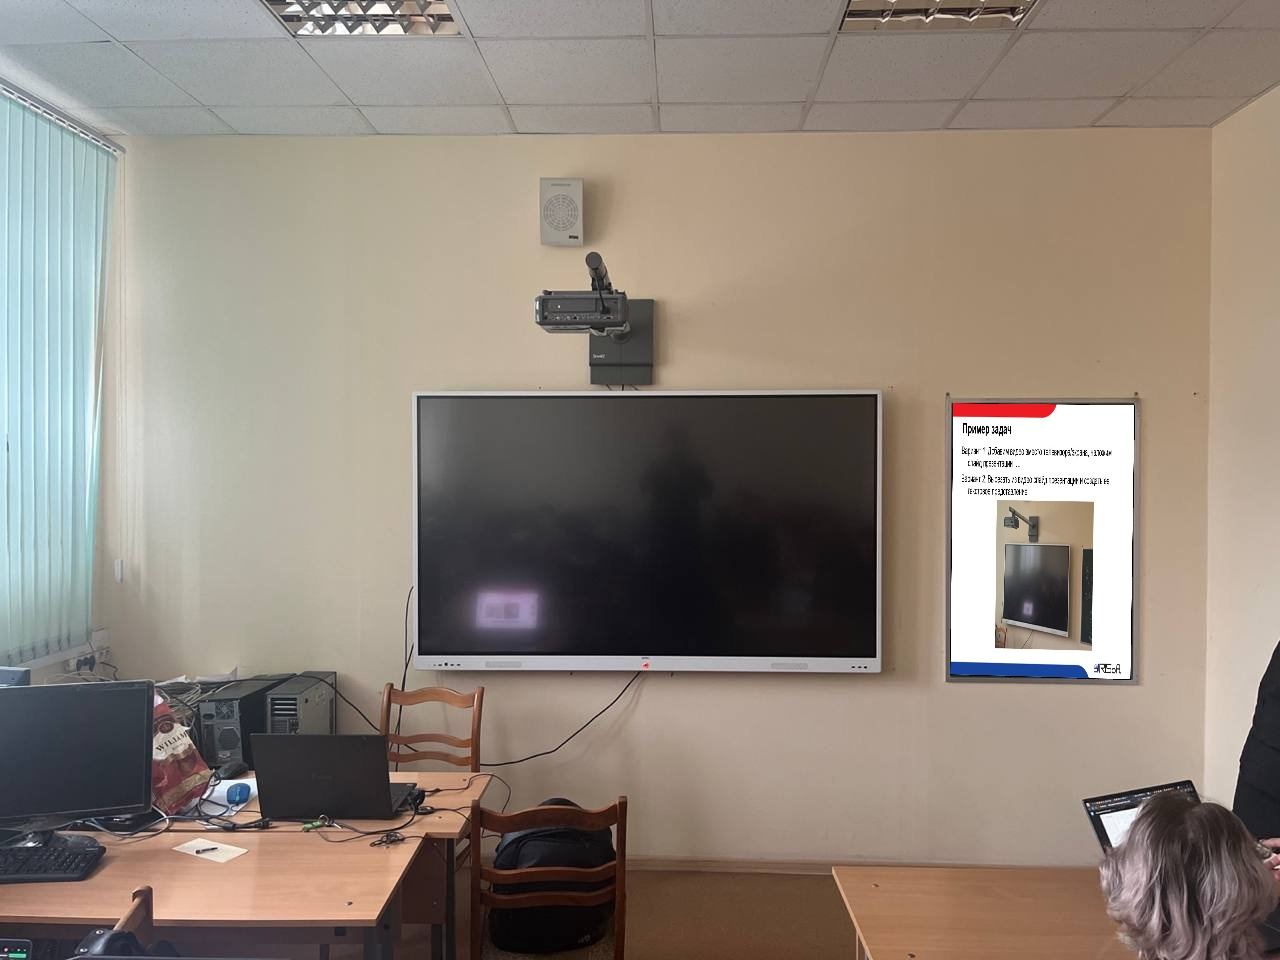
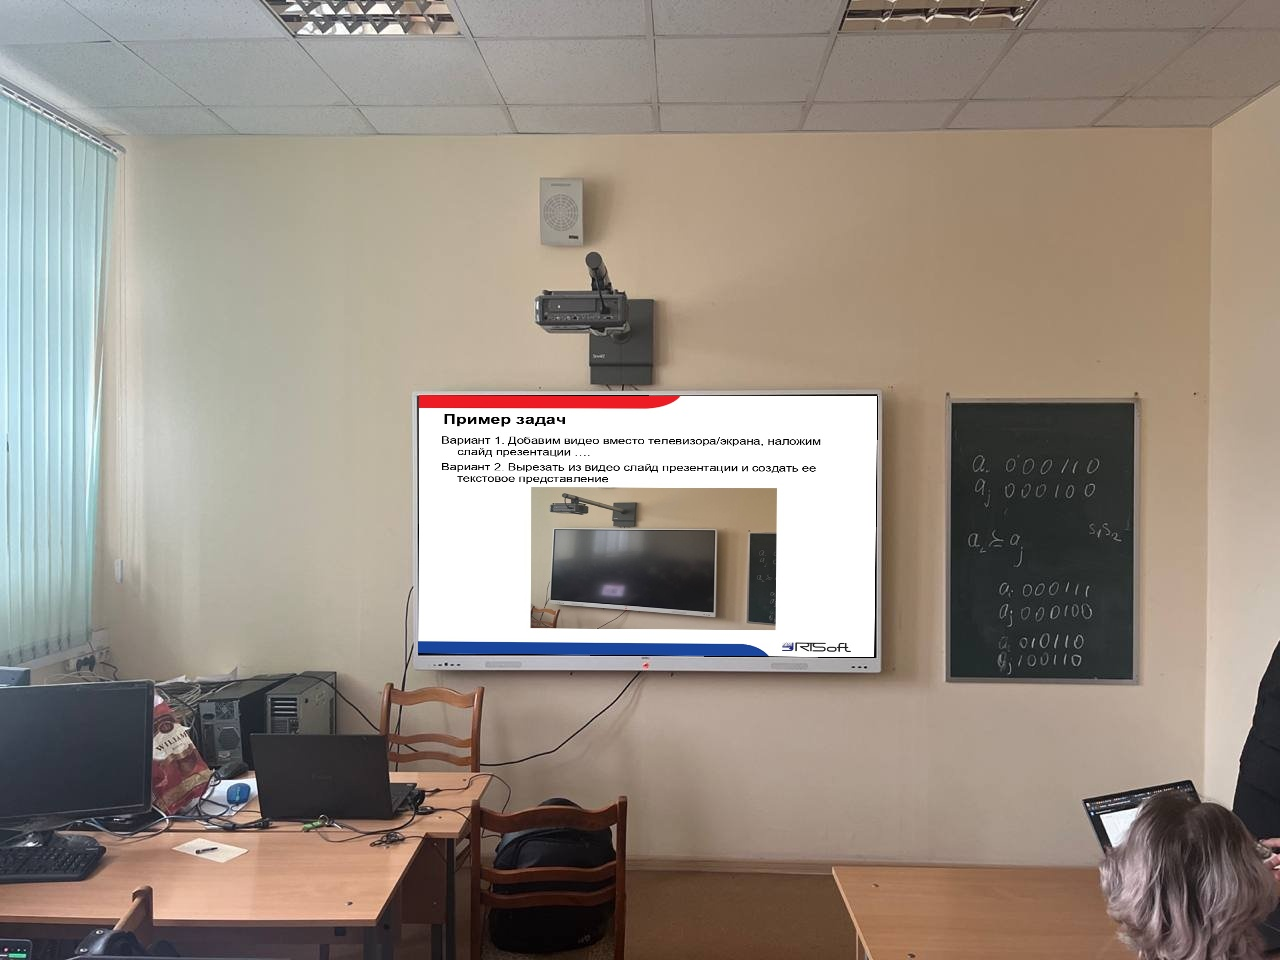
fixed screen_detection; now at each detection iteration min_contour_size threshold becomes higher

Changed region(s): [[0.3125, 0.4062, 0.6875, 0.6875], [0.7188, 0.4062, 0.9062, 0.7188]]

diff --git a/hw2/main.py b/hw2/main.py
@@ -1,7 +1,7 @@
 import cv2
 import numpy as np
 
-def detect_screen(image):
+def detect_screen(image, min_contour_size=10000):
     """
     Функция для поиска экрана на изображении.
     Преобразует изображение в оттенки серого, затем применяет гауссовское размытие и выделяет границы
@@ -20,7 +20,7 @@ def detect_screen(image):
 
     screen_contour = None
     for contour in contours:
-        if cv2.contourArea(contour) < 5000:  # Пропускаем маленькие контуры
+        if cv2.contourArea(contour) < min_contour_size:  # Пропускаем маленькие контуры
             continue
         peri = cv2.arcLength(contour, True)
         approx = cv2.approxPolyDP(contour, 0.02 * peri, True)
@@ -47,15 +47,14 @@ def is_shut_off_screen(image, screen_contour):
     screen_area = cv2.bitwise_and(image, image, mask=mask)
 
     gray_screen = cv2.cvtColor(screen_area, cv2.COLOR_BGR2GRAY)
-    edges_in_screen = cv2.Canny(gray_screen, 50, 150)
+    edges_in_screen = cv2.Canny(gray_screen, 50, 200)
 
     edge_count = cv2.countNonZero(edges_in_screen)
 
-    #TODO: пофиксить определение выключенного экрана
-    if edge_count == 0:
+    if edge_count <= cv2.contourArea(screen_contour) * 0.025:
         return True
     else:
-        return True
+        return False
 
 def apply_perspective_transform(image, screen_contour, slide_image):
     """
@@ -115,15 +114,22 @@ def process_img(base_img_path, slide_img_path, output_path):
         print("Ошибка загрузки изображений.")
         return
 
-    screen_contour = detect_screen(base)
+    screeen = False # Нашли ли экран
+    min_contour_size = 10000
 
-    if screen_contour is not None:
-        if is_shut_off_screen(base, screen_contour):
-            result_image = apply_perspective_transform(base, screen_contour, slide)
-            cv2.imwrite(output_path, result_image)
+    while not screeen:
+        screen_contour = detect_screen(base, min_contour_size)
+
+        if screen_contour is not None:
+            if is_shut_off_screen(base, screen_contour):
+                screeen = True
         else:
-            print("Экран не выключен.")
-    else:
-        print("Экран не найден.")
+            print("Экран не найден.")
+        
+        min_contour_size += 10000   # Ищем другой экран большего размера
 
+    result_image = apply_perspective_transform(base, screen_contour, slide)
+    cv2.imwrite(output_path, result_image)
+
+process_img("tv.jpg", "slide.jpg", "result.jpg")
 process_img("tv_perspective.jpg", "slide.jpg", "result_perspective.jpg")
